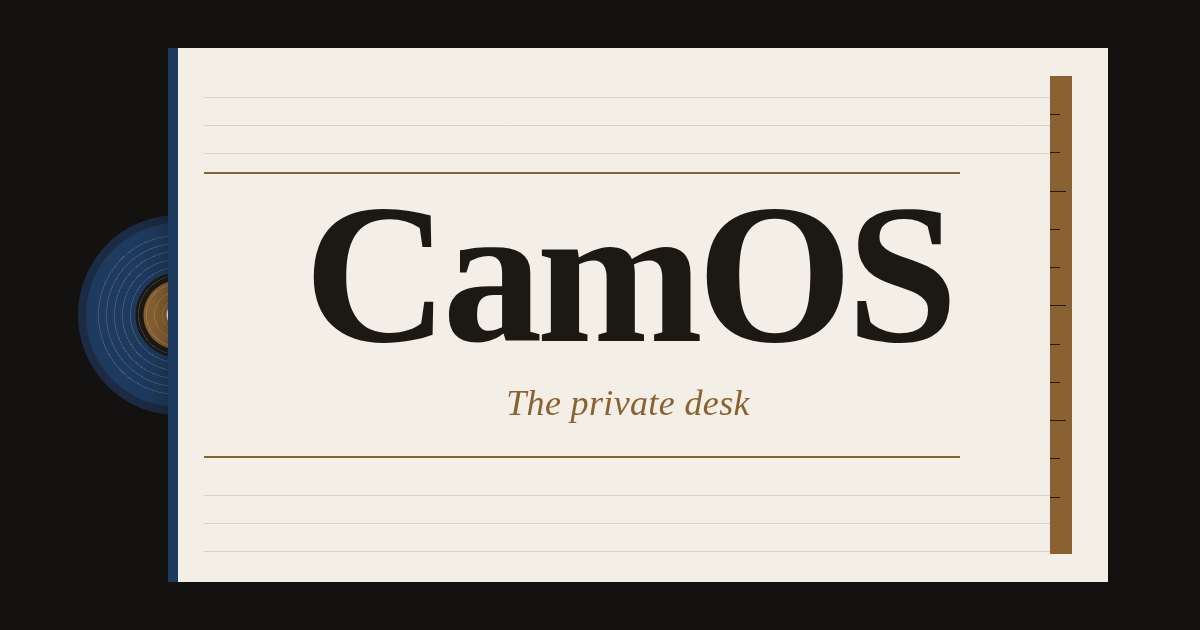
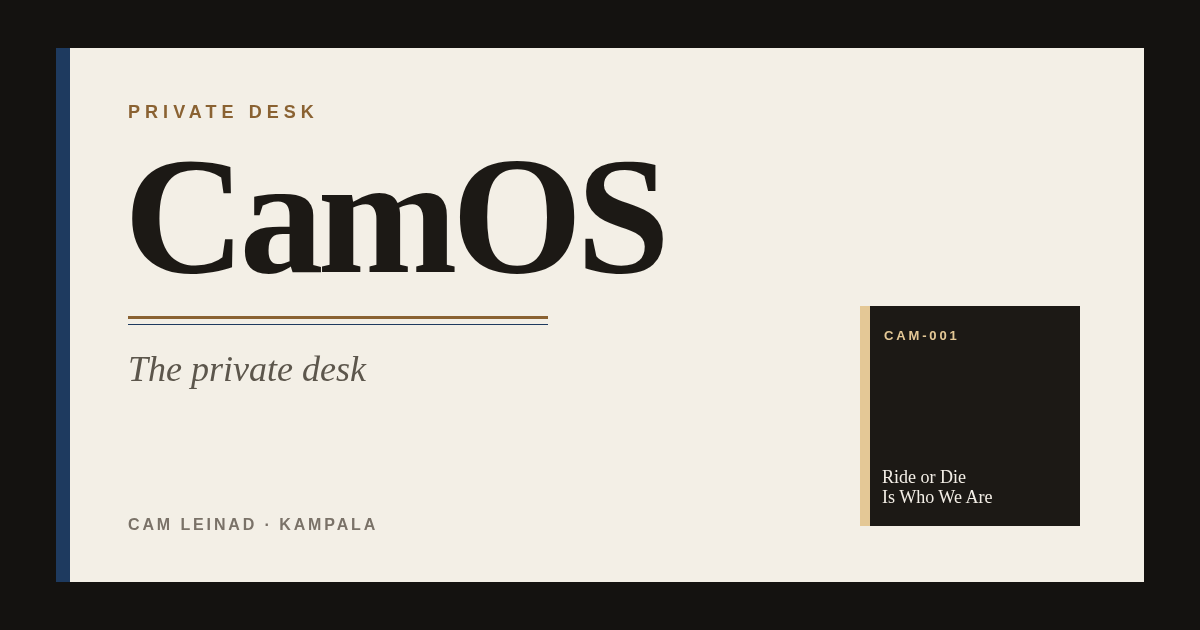
Export from Grok

Changed region(s): [[0.0308, 0.0603, 0.9558, 0.9349], [0.4317, 0.6032, 0.6167, 0.6635]]

diff --git a/.grok/og-preview.html b/.grok/og-preview.html
@@ -1,0 +1,68 @@
+<!doctype html>
+<html>
+<head>
+<meta charset="utf-8">
+<style>
+  html, body { margin: 0; width: 1200px; height: 630px; overflow: hidden; background: #141210; }
+  body { font-family: "Liberation Sans", sans-serif; color: #1c1915; }
+  .sheet {
+    position: absolute;
+    left: 56px; right: 56px; top: 48px; bottom: 48px;
+    background: #f3efe6;
+  }
+  .spine { position: absolute; left: 0; top: 0; bottom: 0; width: 14px; background: #1e3a5f; }
+  .kicker {
+    position: absolute; left: 72px; top: 54px;
+    font-size: 18px; font-weight: 700; letter-spacing: 0.28em;
+    text-transform: uppercase; color: #8a6232;
+  }
+  h1 {
+    position: absolute; left: 68px; top: 92px; margin: 0;
+    font-family: "Liberation Serif", "Bitstream Charter", serif;
+    font-weight: 700; font-size: 168px; line-height: 0.9;
+    letter-spacing: -0.035em; color: #1c1915;
+  }
+  .rule { position: absolute; left: 72px; top: 268px; width: 420px; height: 3px; background: #8a6232; }
+  .rule2 { position: absolute; left: 72px; top: 276px; width: 420px; height: 1px; background: #1e3a5f; }
+  .tag {
+    position: absolute; left: 72px; top: 300px; margin: 0;
+    font-family: "Liberation Serif", serif; font-style: italic;
+    font-size: 36px; color: #5c564c;
+  }
+  .meta {
+    position: absolute; left: 72px; bottom: 48px;
+    font-size: 16px; font-weight: 700; letter-spacing: 0.18em;
+    text-transform: uppercase; color: #7a7268;
+  }
+  .sleeve {
+    position: absolute; right: 64px; bottom: 56px;
+    width: 220px; height: 220px; background: #1c1915; color: #f3eee6;
+  }
+  .sleeve .s { position: absolute; left: 0; top: 0; bottom: 0; width: 10px; background: #e4c896; }
+  .sleeve .cat {
+    position: absolute; left: 24px; top: 22px;
+    font-size: 13px; font-weight: 700; letter-spacing: 0.22em; color: #e4c896;
+  }
+  .sleeve .name {
+    position: absolute; left: 22px; right: 14px; bottom: 18px;
+    font-family: "Liberation Serif", serif; font-size: 18px; line-height: 1.15;
+  }
+</style>
+</head>
+<body>
+  <div class="sheet">
+    <div class="spine"></div>
+    <div class="kicker">Private desk</div>
+    <h1>CamOS</h1>
+    <div class="rule"></div>
+    <div class="rule2"></div>
+    <p class="tag">The private desk</p>
+    <div class="meta">Cam Leinad · Kampala</div>
+    <div class="sleeve">
+      <div class="s"></div>
+      <div class="cat">CAM-001</div>
+      <div class="name">Ride or Die<br>Is Who We Are</div>
+    </div>
+  </div>
+</body>
+</html>

diff --git a/.grok/x-banner.html b/.grok/x-banner.html
@@ -1,0 +1,42 @@
+<!doctype html>
+<html>
+<head>
+<meta charset="utf-8">
+<style>
+  html, body { margin: 0; width: 1200px; height: 264px; overflow: hidden; background: #141210; }
+  body { font-family: "Liberation Sans", sans-serif; color: #f3efe6; }
+  .sheet {
+    position: absolute; left: 0; top: 0; bottom: 0; width: 760px; background: #f3efe6;
+  }
+  .spine { position: absolute; left: 0; top: 0; bottom: 0; width: 12px; background: #1e3a5f; }
+  .kicker {
+    position: absolute; left: 48px; top: 36px;
+    font-size: 14px; font-weight: 700; letter-spacing: 0.26em;
+    text-transform: uppercase; color: #8a6232;
+  }
+  h1 {
+    position: absolute; left: 44px; top: 54px; margin: 0;
+    font-family: "Liberation Serif", serif; font-weight: 700;
+    font-size: 92px; line-height: 0.9; letter-spacing: -0.03em; color: #1c1915;
+  }
+  .tag {
+    position: absolute; left: 48px; top: 156px; margin: 0;
+    font-family: "Liberation Serif", serif; font-style: italic;
+    font-size: 26px; color: #5c564c;
+  }
+  .sleeve {
+    position: absolute; right: 56px; top: 36px; width: 168px; height: 168px; background: #1c1915;
+  }
+  .sleeve .s { position: absolute; left: 0; top: 0; bottom: 0; width: 8px; background: #e4c896; }
+</style>
+</head>
+<body>
+  <div class="sheet">
+    <div class="spine"></div>
+    <div class="kicker">Private desk</div>
+    <h1>CamOS</h1>
+    <p class="tag">The private desk</p>
+  </div>
+  <div class="sleeve"><div class="s"></div></div>
+</body>
+</html>
